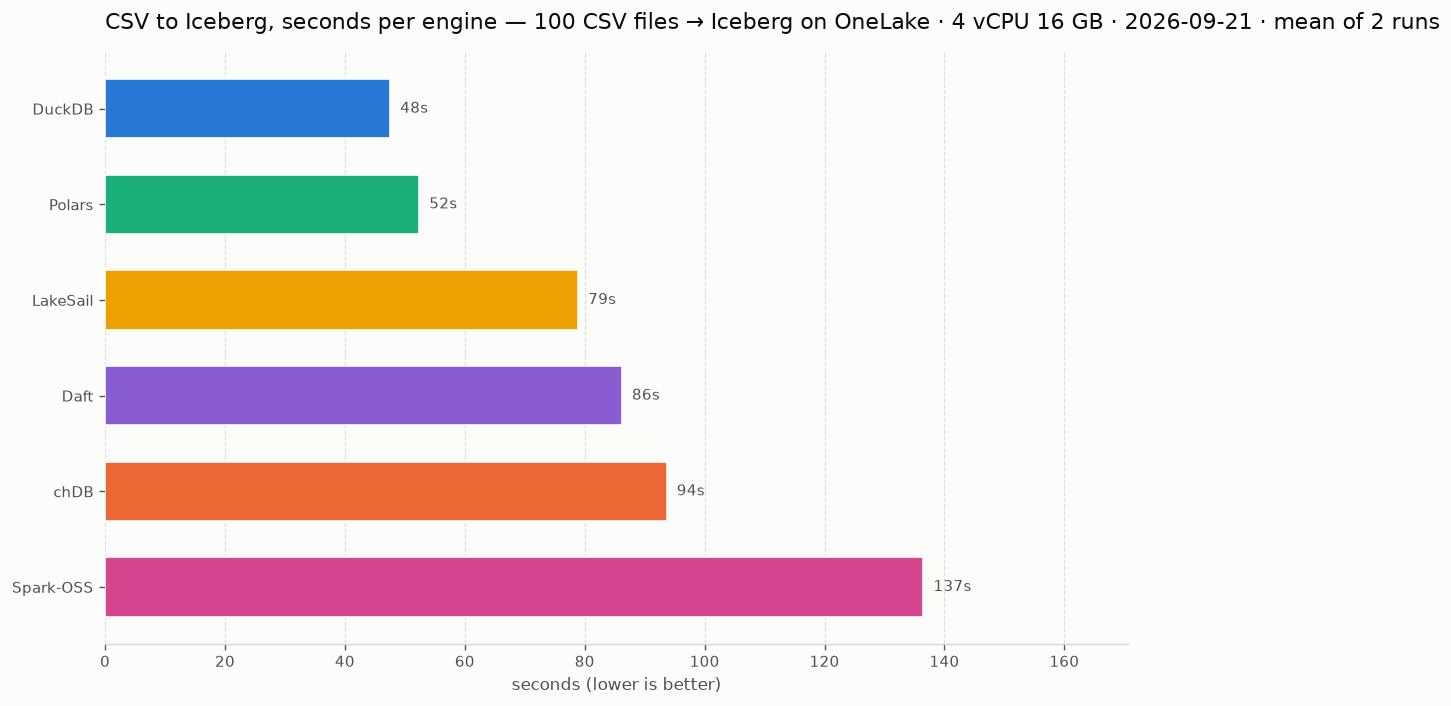
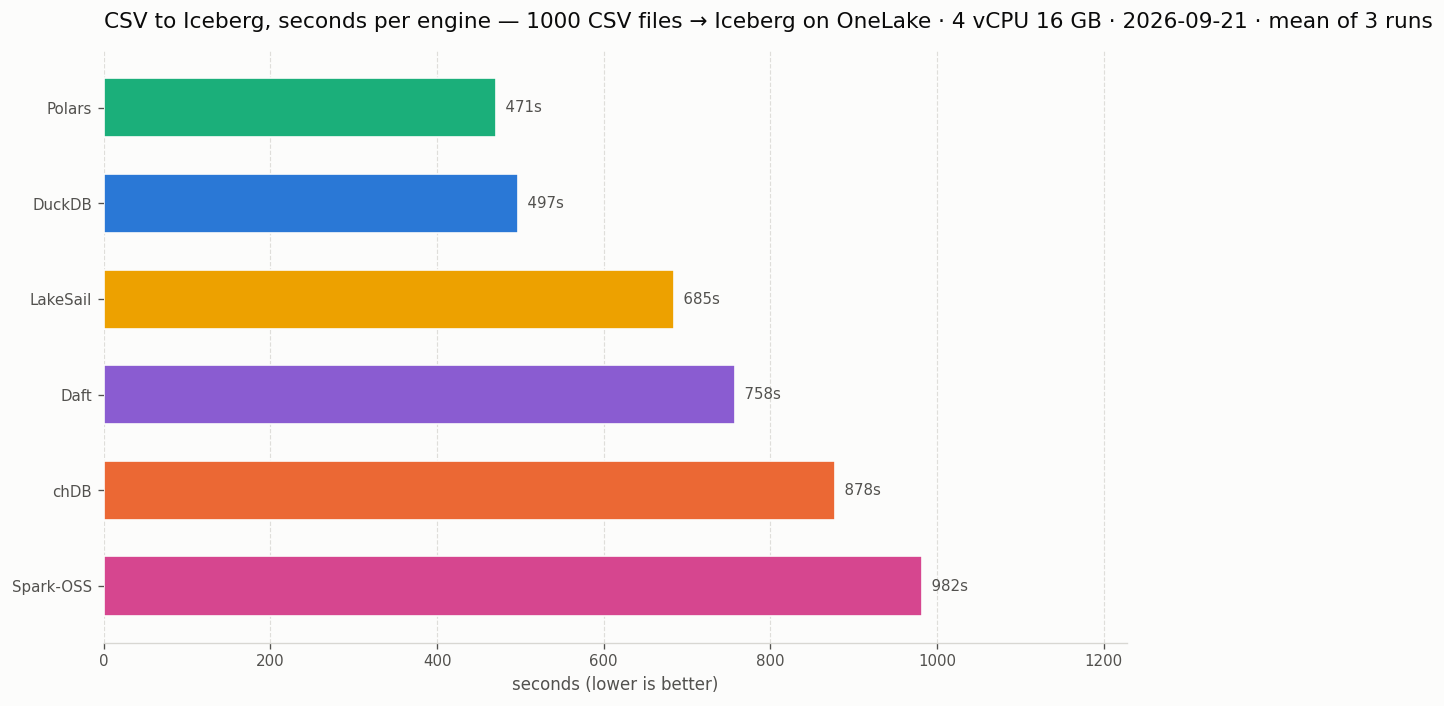
publish: only a headline-scale run rewrites the charts and RESULTS.md
A FILES=100 ETL run (35591414961) went out with the default publish=true and
overwrote docs/etl/charts/totals.png and docs/etl/RESULTS.md with 100-file
numbers, under a README caption that says 1000 files. The TPC-H publish had
the same hole for SF=1 and SF=30.

Both publish scripts still record every run (results JSON, flattened CSV,
step summary) but render docs/charts and RESULTS.md only when the run is at
the headline scale: HEADLINE_FILES = 1000 in bench/etl/config.py,
HEADLINE_SF = 10 in bench/interactive/config.py. A run at any other scale
prints a ::notice saying so. The chart paths README embeds never change, so
README is untouched.

docs/etl/charts and docs/etl/RESULTS.md are restored byte-for-byte from
2f0ed1f, the last 1000-file publish. RESULTS.md's history line will say five
runs after the next 1000-file run; the CSV already does.

diff --git a/.github/scripts/etl_publish.py b/.github/scripts/etl_publish.py
@@ -14,6 +14,11 @@ Outputs: results/etl/<run>.json     -- the immutable record, committed
 SEPARATE DIRECTORIES, ON PURPOSE. `store.load_all` globs `*.json` in one directory,
 non-recursively, so `results/etl/` is invisible to the TPC-H publish and `results/` to this one.
 Two benchmarks, two histories, one file format.
+
+THE CHARTS AND RESULTS.md ARE THE HEADLINE_FILES VIEW. Every run is recorded -- the JSON, the
+CSV, the step summary -- but only a run at the headline file count rewrites docs/etl/charts and
+docs/etl/RESULTS.md, because README captions that chart as 1000 files at a path that never
+changes. bench/etl/config.py says what a FILES=100 run did to it before this guard existed.
 """
 
 from __future__ import annotations
@@ -24,7 +29,7 @@ from pathlib import Path
 
 from bench.charts import LABEL
 from bench.etl import charts
-from bench.etl.config import DEFAULT_FILES, ETL_ENGINES
+from bench.etl.config import DEFAULT_FILES, ETL_ENGINES, HEADLINE_FILES
 from bench.etl.runner import load_row
 from bench.report import leak_check, merge, write_csv
 from bench.store import Run, load_all, write_run
@@ -158,15 +163,21 @@ def main() -> int:
     print(f"wrote {run_path}")
 
     table = load_all(results_dir)
-    subtitle = (
-        f"{run.sf} CSV files → Iceberg on OneLake · {run.cpu} vCPU {run.mem_gb:.0f} GB · "
-        f"{run.run_started_at[:10]}"
-    )
-    for path in charts.render_all(table, files, docs / "etl" / "charts", subtitle):
-        print(f"wrote {path}")
-
     write_csv(table, docs / "data" / "etl_results.csv")
-    write_results_md(run, rows, table, docs / "etl" / "RESULTS.md")
+
+    if files == HEADLINE_FILES:
+        subtitle = (
+            f"{run.sf} CSV files → Iceberg on OneLake · {run.cpu} vCPU {run.mem_gb:.0f} GB · "
+            f"{run.run_started_at[:10]}"
+        )
+        for path in charts.render_all(table, files, docs / "etl" / "charts", subtitle):
+            print(f"wrote {path}")
+        write_results_md(run, rows, table, docs / "etl" / "RESULTS.md")
+    else:
+        print(
+            f"::notice::FILES={files} is not the headline count ({HEADLINE_FILES}): the run and "
+            "the CSV are committed; docs/etl/charts and docs/etl/RESULTS.md are left as they are."
+        )
     leak_check([run_path, docs / "etl" / "RESULTS.md", docs / "data" / "etl_results.csv"])
     write_step_summary(run, rows)
 

diff --git a/.github/scripts/publish.py b/.github/scripts/publish.py
@@ -24,7 +24,7 @@ import sys
 from pathlib import Path
 
 from bench.interactive import charts
-from bench.interactive.config import ENGINES
+from bench.interactive.config import ENGINES, HEADLINE_SF
 from bench.report import leak_check, merge, write_csv
 from bench.store import Run, load_all, write_run
 
@@ -192,16 +192,23 @@ def main() -> int:
     print(f"wrote {run_path}")
 
     table = load_all(results_dir)
-    subtitle = (
-        f"TPC-H SF {run.sf} · {run.cpu} vCPU {run.mem_gb:.0f} GB · "
-        f"{run.run_started_at[:10]} · OneLake Iceberg REST catalog"
-    )
-    rendered = charts.render_all(table, sf, docs / "charts", subtitle)
-    for path in rendered:
-        print(f"wrote {path}")
-
     write_csv(table, docs / "data" / "tpch_results.csv")
-    write_results_md(run, rows, table, docs / "RESULTS.md")
+
+    # The charts and RESULTS.md are the HEADLINE_SF view; a run at another scale is recorded
+    # (the JSON above, the CSV, the step summary) and rewrites neither. etl_publish.py says why.
+    if sf == HEADLINE_SF:
+        subtitle = (
+            f"TPC-H SF {run.sf} · {run.cpu} vCPU {run.mem_gb:.0f} GB · "
+            f"{run.run_started_at[:10]} · OneLake Iceberg REST catalog"
+        )
+        for path in charts.render_all(table, sf, docs / "charts", subtitle):
+            print(f"wrote {path}")
+        write_results_md(run, rows, table, docs / "RESULTS.md")
+    else:
+        print(
+            f"::notice::SF={sf} is not the headline scale ({HEADLINE_SF}): the run and the CSV "
+            "are committed; docs/charts and docs/RESULTS.md are left as they are."
+        )
     leak_check([run_path, docs / "RESULTS.md", docs / "data" / "tpch_results.csv"])
     write_step_summary(run, rows)
 

diff --git a/bench/interactive/config.py b/bench/interactive/config.py
@@ -20,6 +20,11 @@ ENGINES = (
 
 TABLES = ("lineitem", "orders", "partsupp", "part", "customer", "nation", "region", "supplier")
 
+# The scale the headline docs are built at: bench.yml's default, and what README's charts show.
+# A publish at SF=1 or SF=30 records its run and leaves docs/charts and docs/RESULTS.md alone, for
+# the reason bench/etl/config.py gives at HEADLINE_FILES.
+HEADLINE_SF = 10
+
 # Approximate parquet MiB per scale factor unit, measured from a real tpchgen-cli run. Used only
 # to choose a part count; being off by 30% moves a file from 200MB to 260MB and changes nothing.
 PARQUET_MB_PER_SF = {

diff --git a/bench/etl/config.py b/bench/etl/config.py
@@ -47,6 +47,13 @@ CSV_DIR = "Files/csv"
 
 DEFAULT_FILES = 100
 
+# The file count the headline docs are built at. README captions docs/etl/charts/totals.png as
+# "1000 daily files" and the path never changes, so a publish at any other count records its run
+# (results/etl/, the CSV) and leaves the charts and RESULTS.md alone. Before this guard a FILES=100
+# check-run overwrote the 1000-file chart with a 100-file one under the same name (run
+# 35591414961), and README, the blog that embeds it and the table under it all disagreed.
+HEADLINE_FILES = 1000
+
 
 @dataclass(frozen=True)
 class EtlConfig(Config):

diff --git a/docs/etl/RESULTS.md b/docs/etl/RESULTS.md
@@ -1,24 +1,24 @@
 # Light ETL results
 
-100 AEMO daily CSV files read from OneLake, filtered, cast and written as one Iceberg table per engine, on 4 vCPU / 15.6 GB (linux-6.17.0-1022-azure, Python 3.12.14).
+1000 AEMO daily CSV files read from OneLake, filtered, cast and written as one Iceberg table per engine, on 4 vCPU / 15.6 GB (linux-6.17.0-1022-azure, Python 3.12.14).
 
-Last run: `2026-09-21T11:30:21Z` · commit `44dd28a` · [Actions run](https://github.com/djouallah/onelake-iceberg/actions/runs/35591414961)
+Last run: `2026-09-21T08:59:36Z` · commit `bb9d5c9` · [Actions run](https://github.com/djouallah/onelake-iceberg/actions/runs/35580753996)
 
 ## Latest run
 
 | Engine | Version | Load | Attach | Rows | Error |
 |---|---|---:|---:|---:|---|
-| DuckDB | `2.0.0.dev2609121639` | 35.8s | 4.1s | 13,876,896 | — |
-| Polars | `2.0.0-rc.2` | 53.2s | 1.5s | 13,876,896 | — |
-| chDB | `4.4.0` | 76.0s | 1.8s | 13,876,896 | — |
-| LakeSail | `0.7.1` | 76.0s | 0.6s | 13,876,896 | — |
-| Daft | `0.7.25` | 78.8s | 1.9s | 13,876,896 | — |
-| Spark-OSS | `4.1.3 + iceberg Apache Iceberg 1.11.0 (commit 6976e020b894f6a6777704df2b8c4458cb291ae9)` | 124.3s | 16.7s | 13,876,896 | — |
+| DuckDB | `2.0.0.dev2609121639` | 414.3s | 5.3s | 149,146,763 | — |
+| Polars | `2.0.0-rc.2` | 479.7s | 1.0s | 149,146,763 | — |
+| Daft | `0.7.25` | 649.3s | 1.8s | 149,146,763 | — |
+| chDB | `4.4.0` | 768.2s | 2.3s | 149,146,763 | — |
+| LakeSail | `0.7.1` | 815.0s | 0.8s | 149,146,763 | — |
+| Spark-OSS | `4.1.3 + iceberg Apache Iceberg 1.11.0 (commit 6976e020b894f6a6777704df2b8c4458cb291ae9)` | 918.2s | 11.7s | 149,146,763 | — |
 
 Load = drop and create the table, read the CSVs, transform, write, commit. Attach = session start and catalog attach, timed separately and excluded from Load. Rows is the count read back from the table afterwards; every engine applies the same filter, so they agree.
 
 ## History
 
-60 timed rows across 5 runs.
+48 timed rows across 4 runs.
 Raw data: one immutable JSON per run under [`results/etl/`](../../results/etl/), flattened to [`data/etl_results.csv`](../data/etl_results.csv).
 
